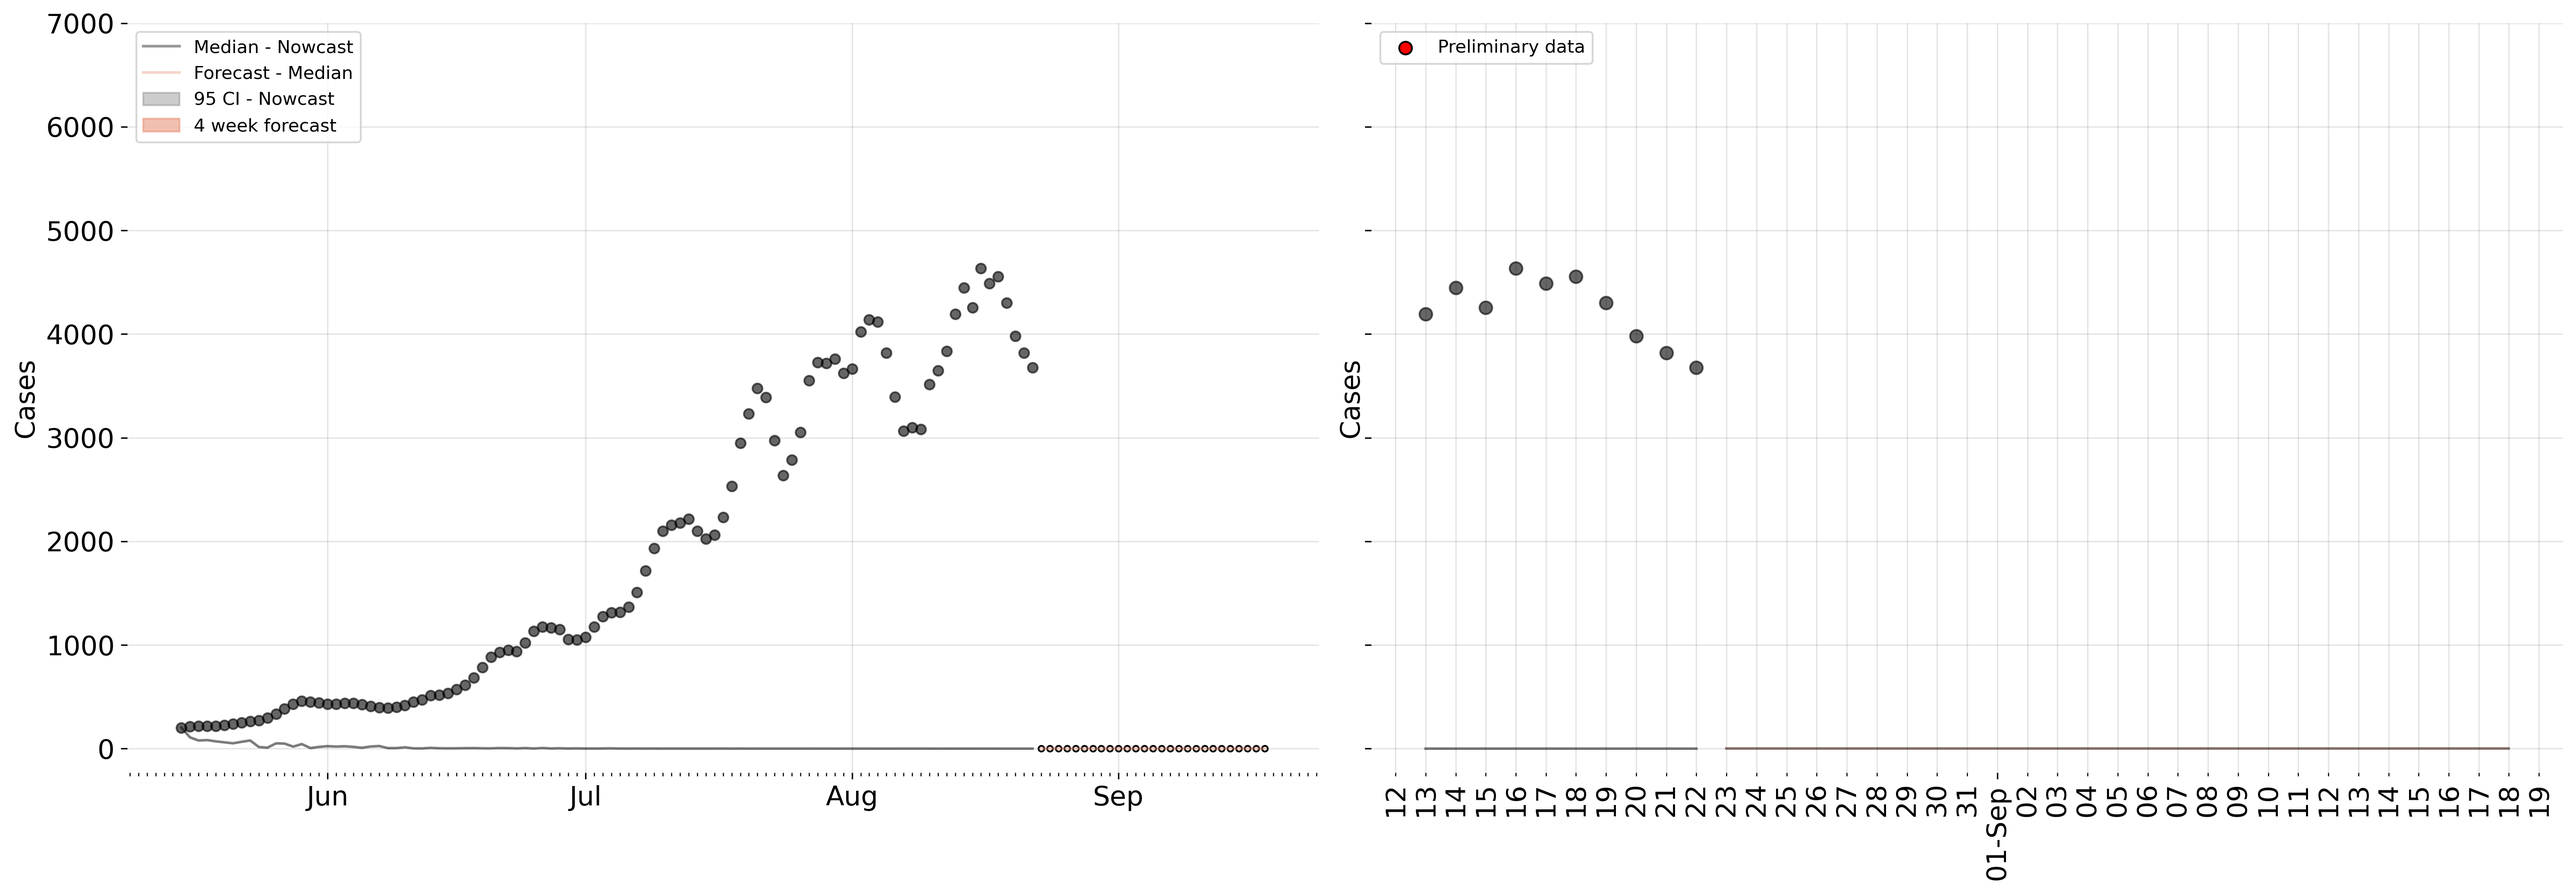
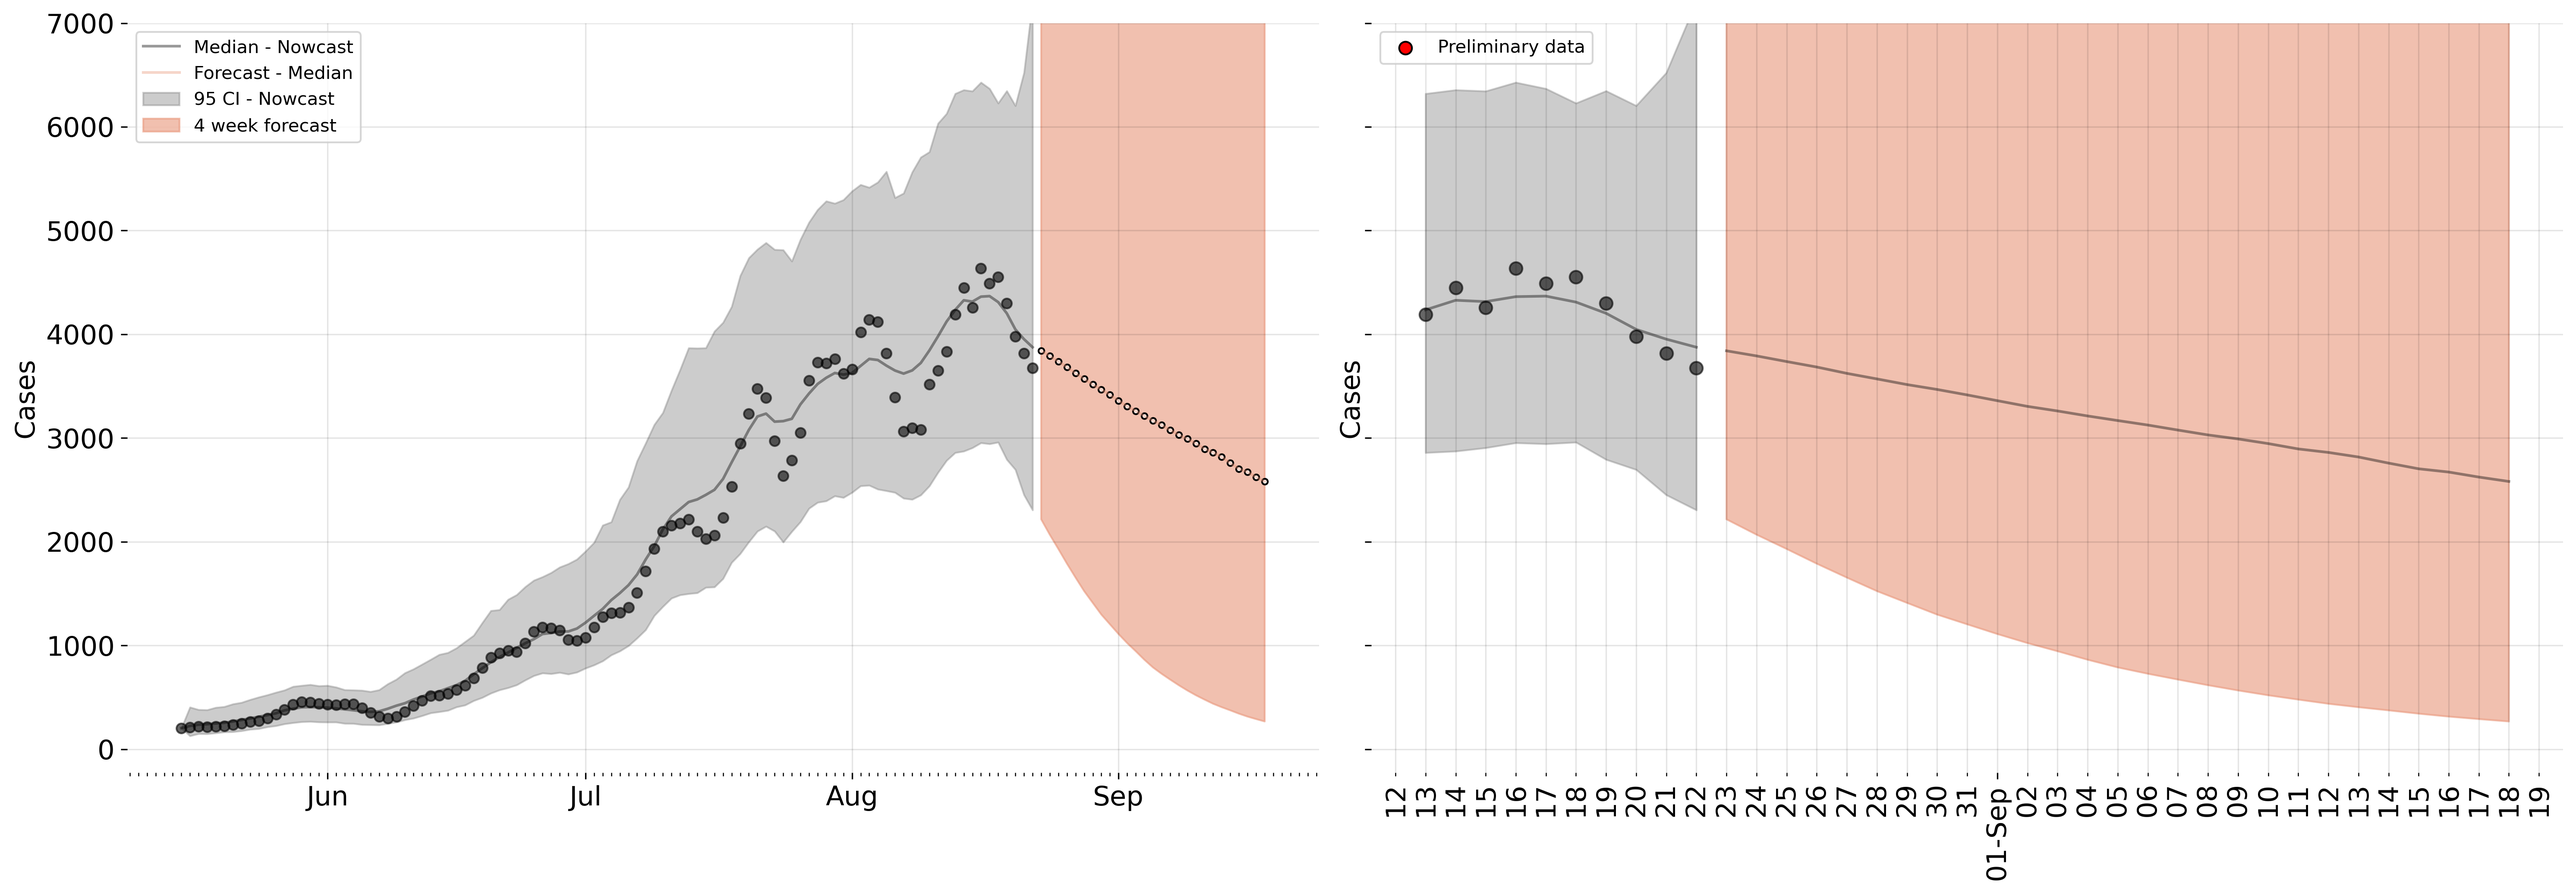
adding recovered fraction

diff --git a/estimate_h.py b/estimate_h.py
@@ -16,6 +16,8 @@ data_dir            = config.get_property('data_dir_covid')
 data_dir_mnps       = config.get_property('data_dir_col')
 results_dir         = config.get_property('results_dir')
 hosp_url            = config.get_property('hosp_url')
+uci_url             = config.get_property('UCI_url')
+
 geo_dir             = config.get_property('geo_dir')
 
 agglomerated_folder = os.path.join(data_dir, 'data_stages', 'colombia', 'agglomerated', 'geometry')
@@ -24,45 +26,58 @@ data = pd.read_csv(os.path.join(agglomerated_folder, 'cases.csv'), parse_dates=[
 hosp = pd.read_csv(hosp_url, encoding='ISO-8859-1', sep=';', dtype=str, skiprows=4, skipfooter=2, engine='python'
                     ).rename(columns={'Fecha': 'date_time', 'Camas ocupadas COVID 19': 'hospitalized', 'Camas asignadas COVID 19':'total_beds'})
 hosp['hospitalized'] = hosp["hospitalized"].apply(lambda x: int(x.replace('.', '')))
-hosp['total_beds'] = hosp["total_beds"].apply(lambda x: int(x.replace('.', '')))
-hosp["date_time"] =  pd.to_datetime(hosp["date_time"], format='%d/%m/%Y')
+hosp['total_beds']   = hosp["total_beds"].apply(lambda x: int(x.replace('.', '')))
+hosp["date_time"]    =  pd.to_datetime(hosp["date_time"], format='%d/%m/%Y')
 
 
-data_all = pd.merge(data, hosp, how='outer').set_index('date_time')
+uci = pd.read_csv(uci_url, encoding='ISO-8859-1', sep=';', dtype=str, engine='python',  skipfooter=3).rename(columns={'Fecha': 'date_time', 'Camas UCI ocupadas Covid-19': 'uci', 'Total camas UCI COVID 19 reportadas por IPS': 'total_uci'})
+uci['uci'] = uci["uci"].apply(lambda x: int(x.replace('.', '')))
+uci['total_uci']   = uci["total_uci"].apply(lambda x: int(x.replace('.', '')))
+uci["date_time"]    =  pd.to_datetime(uci["date_time"], format='%d/%m/%Y')
+
+
+data_all = pd.merge(data, hosp, on='date_time', how='outer').set_index('date_time')
+data_all = pd.merge(data_all, uci, on='date_time', how='outer').set_index('date_time')
 data_all_raw = data_all.copy()
 
 # hospitalized cases only available since mid. may...
-data_all = data_all.dropna()
+data_all = data_all.fillna(0)
+data_all = data_all.loc[:data.date_time.iloc[-1]]
 
-
-data_all = data_all.resample('D').sum().fillna(0)[['num_cases','num_diseased', 'hospitalized']]
+data_all = data_all.resample('D').sum().fillna(0)[['num_cases','num_diseased', 'hospitalized', 'uci']]
 data_all  = prepare_cases(data_all, col='num_cases', cutoff=0)
 data_all  = prepare_cases(data_all, col='num_diseased', cutoff=0)
-data_all = data_all.rename(columns={'smoothed_num_cases': 'confirmed', 'smoothed_num_diseased':'death'})[['confirmed', 'death', 'hospitalized']]
-data_all = data_all.iloc[:-14]
-data_all = data_all.iloc[:100]
+data_all = data_all.rename(columns={'smoothed_num_cases': 'confirmed', 'smoothed_num_diseased':'death'})[['confirmed', 'death', 'hospitalized', 'uci']]
+data_all['type'] = 'fitted'
+data_all['type'].iloc[-14:] = 'preliminary'
+
+#data_all = data_all.iloc[:100]
 
 
 fig, axes = plt.subplots(2,1)
 data_all["death"].plot(ax=axes[0], color='red', linestyle='--', label='Deaths')
+data_all["uci"].plot(ax=axes[0], color='green', linestyle='--', label='UCIs')
+
 data_all["confirmed"].plot(ax=axes[1], color='k', linestyle='-', label='Cases')
 ax_tw = axes[1].twinx()
 data_all["hospitalized"].plot(ax=axes[1], color='blue', linestyle='--', label='Hosp')
+data_all["uci"].plot(ax=axes[1], color='green', linestyle='--', label='UCIs')
+
 axes[0].legend()
 axes[1].legend()
 ax_tw.legend()
 plt.show()
 
+data_fit = data_all[data_all.type=='fitted']
 model = SEIRHD(
-    hospitalized     = data_all['hospitalized'].cumsum(),
-    confirmed        = data_all['confirmed'].cumsum(),
-    death            = data_all['death'].cumsum(),
-    T                = len(data_all),
-    N                = 8181047,
-    hosp_prob        = 0.1
+    hospitalized     = data_fit['uci'].cumsum(),
+    confirmed        = data_fit['confirmed'].cumsum(),
+    death            = data_fit['death'].cumsum(),
+    T                = len(data_fit),
+    N                = 8181047
     )
 
-T_future = 27
+T_future = 28
 path_to_save = os.path.join(results_dir, 'weekly_forecast' , 'bogota', 'hosp_'+pd.to_datetime(data.index.values[-1]).strftime('%Y-%m-%d'))
 
 if not os.path.exists(path_to_save):
@@ -73,6 +88,7 @@ samples = model.infer(num_warmup=400, num_samples=2000, num_chains=1)
 # In-sample posterior predictive samples (don't condition on observations)
 print(" * collecting in-sample predictive samples")
 post_pred_samples = model.predictive()
+
 # Forecasting posterior predictive (do condition on observations)
 print(" * collecting forecast samples")
 forecast_samples = model.forecast(T_future=T_future)
@@ -92,7 +108,7 @@ df_hosp   = create_df_response(hosp_fitted, time=len(data_all), date_init ='2020
 df_deaths = create_df_response(deaths_fitted, time=len(data_all), date_init ='2020-05-15',  forecast_horizon=27, use_future=True)
 df_cases  = create_df_response(cases_fitted, time=len(data_all), date_init ='2020-05-15',  forecast_horizon=27, use_future=True)
 
-beta_samples = np.concatenate((np.expand_dims(samples["beta0"],-1), samples["beta"] ), axis=1)
+beta_samples     = np.concatenate((np.expand_dims(samples["beta0"],-1), samples["beta"] ), axis=1)
 df_contact_rate  = create_df_response(beta_samples , time=beta_samples.shape[-1], date_init ='2020-05-15',  forecast_horizon=27, use_future=False)
 
 
@@ -102,14 +118,14 @@ from functions.plot_utils import *
 data_all['type'] = 'fitted'
 plot_fit(df_deaths, data_all, col_data='death',   y_lim_up = 300, y_label='Deaths', color='indianred', path_to_save='figures/mcmc_2/deaths.png')
 plot_fit(df_cases,  data_all, col_data='confirmed',  y_lim_up = 7000,  y_label='Cases', color='darksalmon', path_to_save='figures/mcmc_2/cases.png')
-plot_fit(df_hosp, data_all,   col_data='hospitalized',   y_lim_up = 5000, y_label='Hospitalization', color='blue', path_to_save='figures/mcmc_2/hosp.png')
+plot_fit(df_hosp, data_all,   col_data='uci',   y_lim_up = 5000, y_label='Hospitalization', color='blue', path_to_save='figures/mcmc_2/hosp.png')
 
 
 fig, ax = plt.subplots(1, 1, figsize=(15.5, 7))
 ax.plot(df_contact_rate.index.values, df_contact_rate["median"], color='darkred', alpha=0.4, label='Median - Nowcast')
-ax.fill_between(df_contact_rate.index.values, df_contact_rate["low_95"], df_contact_rate["high_95"], color='darkred', alpha=0.4, label='95 CI - Nowcast')
-ax.fill_between(df_contact_rate.index.values, df_contact_rate["low_80"], df_contact_rate["high_80"], color='darkred', alpha=0.4, label='95 CI - Nowcast')
-ax.fill_between(df_contact_rate.index.values, df_contact_rate["low_50"], df_contact_rate["high_50"], color='darkred', alpha=0.4, label='95 CI - Nowcast')
+ax.fill_between(df_contact_rate.index.values, df_contact_rate["low_95"], df_contact_rate["high_95"], color='darkred', alpha=0.3, label='95 CI - Nowcast')
+ax.fill_between(df_contact_rate.index.values, df_contact_rate["low_80"], df_contact_rate["high_80"], color='darkred', alpha=0.15, label='95 CI - Nowcast')
+ax.fill_between(df_contact_rate.index.values, df_contact_rate["low_50"], df_contact_rate["high_50"], color='darkred', alpha=0.1, label='95 CI - Nowcast')
 (y1_l, y2_l) = ax.get_ylim()
 # ax.scatter(dates_forecast, median[num_times-1:num_times+num_forecast-1], edgecolor='k', facecolor='white')#, label='Deaths')
 ax.xaxis.set_major_locator(mdates.MonthLocator())
@@ -147,4 +163,3 @@ np.savez_compressed(os.path.join(path_to_save, 'samples.npz'),
                         mcmc_samples = samples,
                         post_pred_samples = post_pred_samples,
                         forecast_samples = forecast_samples)
-

diff --git a/models/seirhd_model.py b/models/seirhd_model.py
@@ -364,13 +364,11 @@ class SEIRHDModel(SEIRModel):
         sdot = - beta * S * I / N
         edot = beta * S * I / N - sigma * E
         idot = sigma * E - gamma * (1 - hosp_prob) * I - gamma * hosp_prob * I
-        hdot = hosp_prob * gamma * I - death_rate * death_prob * H - gamma * (1 - death_prob) * H
-        rdot = gamma * (1-death_prob) * H + gamma * (1 - hosp_prob) * I
-
-
+        hdot = hosp_prob * gamma * I - death_rate * death_prob * H - death_rate * (1 - death_prob) * H
+        rdot = death_rate * (1-death_prob) * H + gamma * (1 - hosp_prob) * I
         udot = hosp_prob * gamma * I       # Cum hosp
         ddot = death_rate * death_prob * H # Cum deaths
-        cdot = beta * S * I / N                # Cum incidence
+        cdot = beta * S * I / N            # Cum incidence
 
         return np.stack([sdot, edot, idot, rdot, hdot, udot, ddot, cdot])
 
@@ -433,7 +431,7 @@ class SEIRHD(SEIRHDBase):
                  death_dispersion=0.3,
                  hosp_prob  = 0.2,
                  death_prob = 0.01,
-                 hosp_dispersion=0.3,
+                 hosp_dispersion=0.7,
                  rw_scale = 2e-1,
                  det_noise_scale=0.15,
                  forecast_rw_scale = 0.,
@@ -451,12 +449,12 @@ class SEIRHD(SEIRHDBase):
         #I0 = numpyro.sample("I0", dist.Uniform(0, 300))
         #E0 = numpyro.sample("E0", dist.Uniform(0, 300*0.1))
         #H0 = numpyro.sample("H0", dist.Uniform(0, 300*0.1))
-        D0 = numpyro.sample("D0", dist.Uniform(0, 30))
+        D0 = numpyro.sample("D0", dist.Uniform(0, 100))
 
         # Sample initial number of infected individuals
-        I0 = numpyro.sample("I0", dist.Uniform(0, 1000))
-        E0 = numpyro.sample("E0", dist.Uniform(0, 3000))
-        H0 = numpyro.sample("H0", dist.Uniform(0, 2000))
+        I0 = numpyro.sample("I0", dist.Uniform(0, 0.02*N))
+        E0 = numpyro.sample("E0", dist.Uniform(0, 0.02*N))
+        H0 = numpyro.sample("H0", dist.Uniform(0, 0.02*N))
         #D0 = numpyro.sample("D0", dist.Uniform(0, 0.02*N))
 
 
@@ -497,16 +495,20 @@ class SEIRHD(SEIRHDBase):
                                     dist.Beta(.9 * 100,
                                               (1-.9) * 100))
 
+        det_prob_h = numpyro.sample("det_prob_h",
+                                    dist.Beta(.9 * 100,
+                                              (1-.9) * 100))
+
         death_prob = numpyro.sample("death_prob",
                                     dist.Beta(death_prob * 100, (1-death_prob) * 100))
 
         hosp_prob = numpyro.sample("hosp_prob",
                                     dist.Beta(hosp_prob * 100, (1-hosp_prob) * 100))
-                                    #dist.Beta(0.02 * 1000, (1-0.02) * 1000))
+                                    # dist.Beta(0.02 * 1000, (1-0.02) * 1000))
 
         death_rate = numpyro.sample("death_rate",
                                     dist.Gamma(10, 10 * H_duration_est))
-                                    #dist.Gamma(100, 100 * H_duration_est))
+                                    # dist.Gamma(100, 100 * H_duration_est))
 
         if drift_scale is not None:
             drift = numpyro.sample("drift", dist.Normal(loc=0., scale=drift_scale))
@@ -547,7 +549,7 @@ class SEIRHD(SEIRHDBase):
             #z0 = observe("dz0", x0[5], det_prob_d, det_noise_scale, obs=death0)
 
         with numpyro.handlers.scale(scale=2.0):
-            h0 = observe_nb2("dh0", x0[5], det_prob_d, hosp_dispersion, obs=hospitalized0)
+            h0 = observe_nb2("dh0", x0[5], det_prob_h, hosp_dispersion, obs=hospitalized0)
             #z0 = observe("dz0", x0[5], det_prob_d, det_noise_scale, obs=death0)
 
 
@@ -563,7 +565,8 @@ class SEIRHD(SEIRHDBase):
                   hosp_prob,
                   death_prob,
                   death_rate,
-                  det_prob_d)
+                  det_prob_d,
+                  det_prob_h)
 
         beta, det_prob, x, y, z, h = self.dynamics(T,
                                                 params,
@@ -592,7 +595,8 @@ class SEIRHD(SEIRHDBase):
                       hosp_prob,
                       death_prob,
                       death_rate,
-                      det_prob_d)
+                      det_prob_d,
+                      det_prob_h)
 
             beta_f, det_rate_rw_f, x_f, y_f, z_f, h_f = self.dynamics(T_future+1,
                                                                  params,
@@ -620,7 +624,8 @@ class SEIRHD(SEIRHDBase):
         hosp_prob, \
         death_prob, \
         death_rate, \
-        det_prob_d = params
+        det_prob_d, \
+        det_prob_h = params
 
         rw = frozen_random_walk("rw" + suffix,
                                 num_steps=T-1,
@@ -649,7 +654,7 @@ class SEIRHD(SEIRHDBase):
             #z = observe("dz" + suffix, x_diff[:,5], det_prob_d, death_dispersion, obs = death)
 
         with numpyro.handlers.scale(scale=2.0):
-            h = observe_nb2("dh" + suffix, x_diff[0:,5], 1, hosp_dispersion, obs = hospitalized)
+            h = observe_nb2("dh" + suffix, x_diff[0:,5], det_prob_h, hosp_dispersion, obs = hospitalized)
             #h = observe_nb("dh" + suffix, x_diff[0:,4], det_prob_d, hosp_dispersion, obs = death)
 
 
@@ -693,7 +698,6 @@ class SEIRHD(SEIRHDBase):
 
     def h0(self, **args):
         return self.h0(**args)
-
 
     def h(self, samples, **args):
         '''Get cumulative hospitalizations from incident ones'''

diff --git a/README.md b/README.md
@@ -13,9 +13,15 @@ We present forecasts in 4 week-format daily cases and deaths horizon.
 ![Cases Forecast](/figures/mcmc/cases.png "Cases Forecast")
 ![Deaths Forecast](/figures/mcmc/deaths.png "Deaths Forecasts")
 
+## Recovered Population
+We fit a mechanistic model with an Ensemble Adjustment Kalman Filter (EAKF) in the iterative framework for estimates past symptomatic/reported and asymptomatic/unreported transmission rates and current state variables. Below we present the estimated fraction of recovered individuals. We compare (not fit) our model to the [seroprevalence study](https://www.ins.gov.co/estudio-nacional-de-seroprevalencia/reporte.html) from the national health institute (INS).
+    ![Estimated fraction of recovered individuals](/figures/eakf/recovered.png "Contact rate")
+
 ## Parameter Estimates
 1. Time variable contact rate $\beta (t)$
     ![Time Variable Contact Rate](/figures/mcmc/contact_rate.png "Contact rate")
+
+
 
 ## References
 [1] Ray, E. L., Wattanachit, N., Niemi, J., Kanji, A. H., House, K., Cramer, E. Y., Bracher, J., Zheng, A., Yamana, T. K., Xiong, X., Woody, S., Wang, Y., Wang, L., Walraven, R. L., Tomar, V., Sherratt, K., Sheldon, D., Reiner, R. C., Prakash, B. A., … Reich, N. G. (2020). Ensemble Forecasts of Coronavirus Disease 2019 (COVID-19) in the U.S. MedRxiv, 2020.08.19.20177493. https://doi.org/10.1101/2020.08.19.20177493
